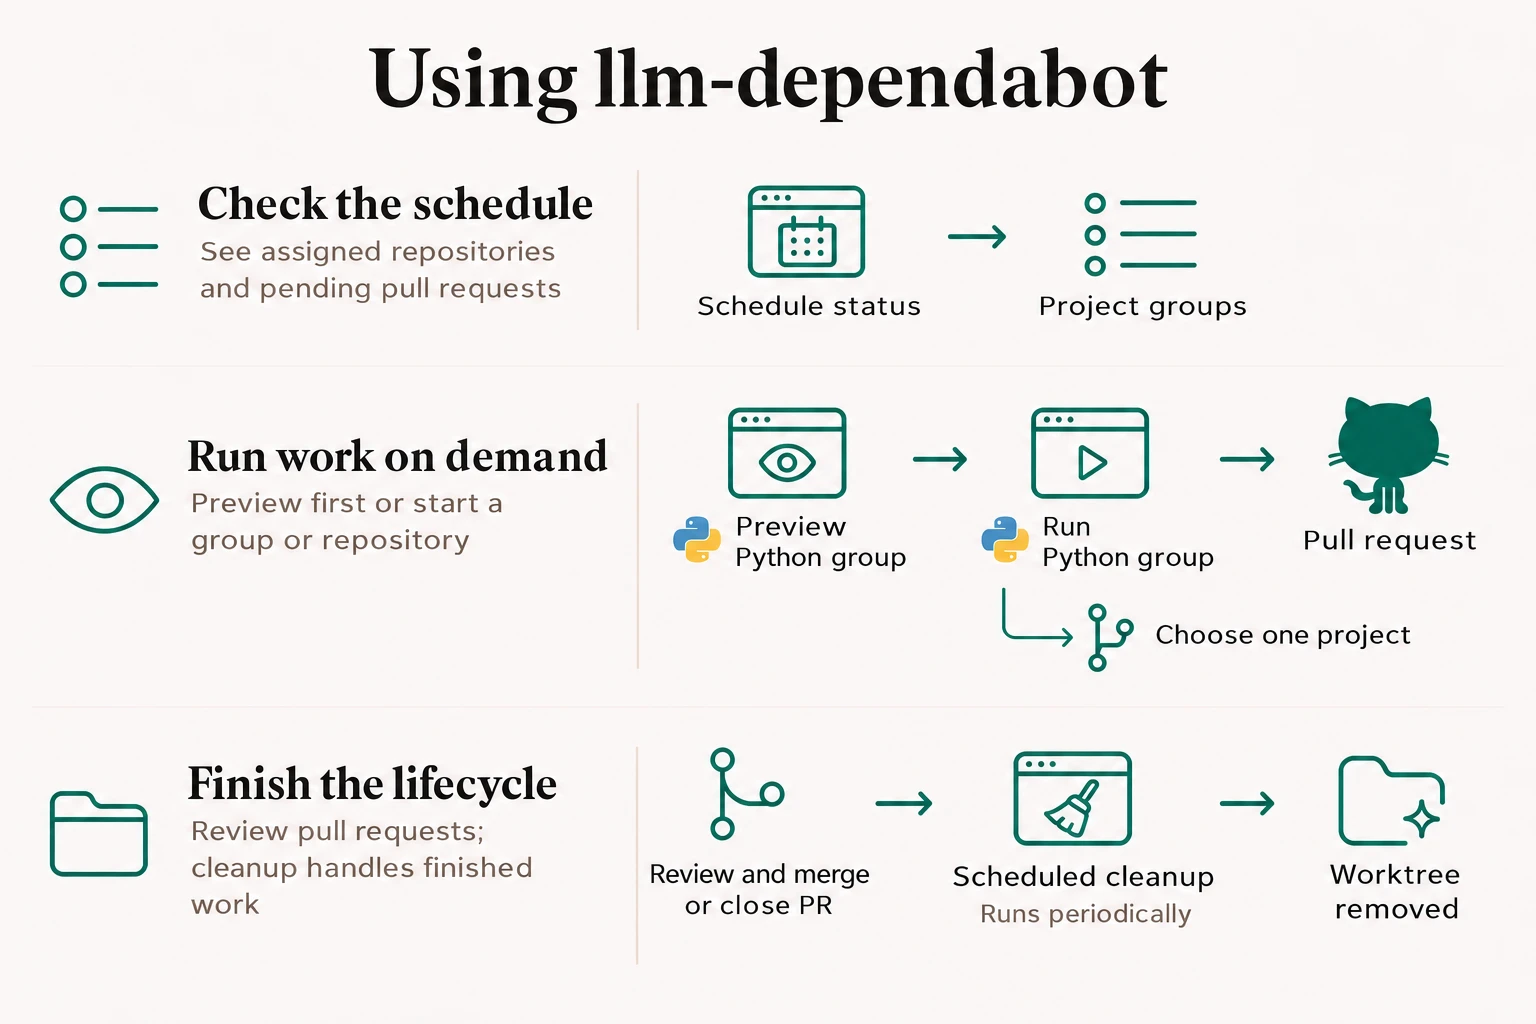
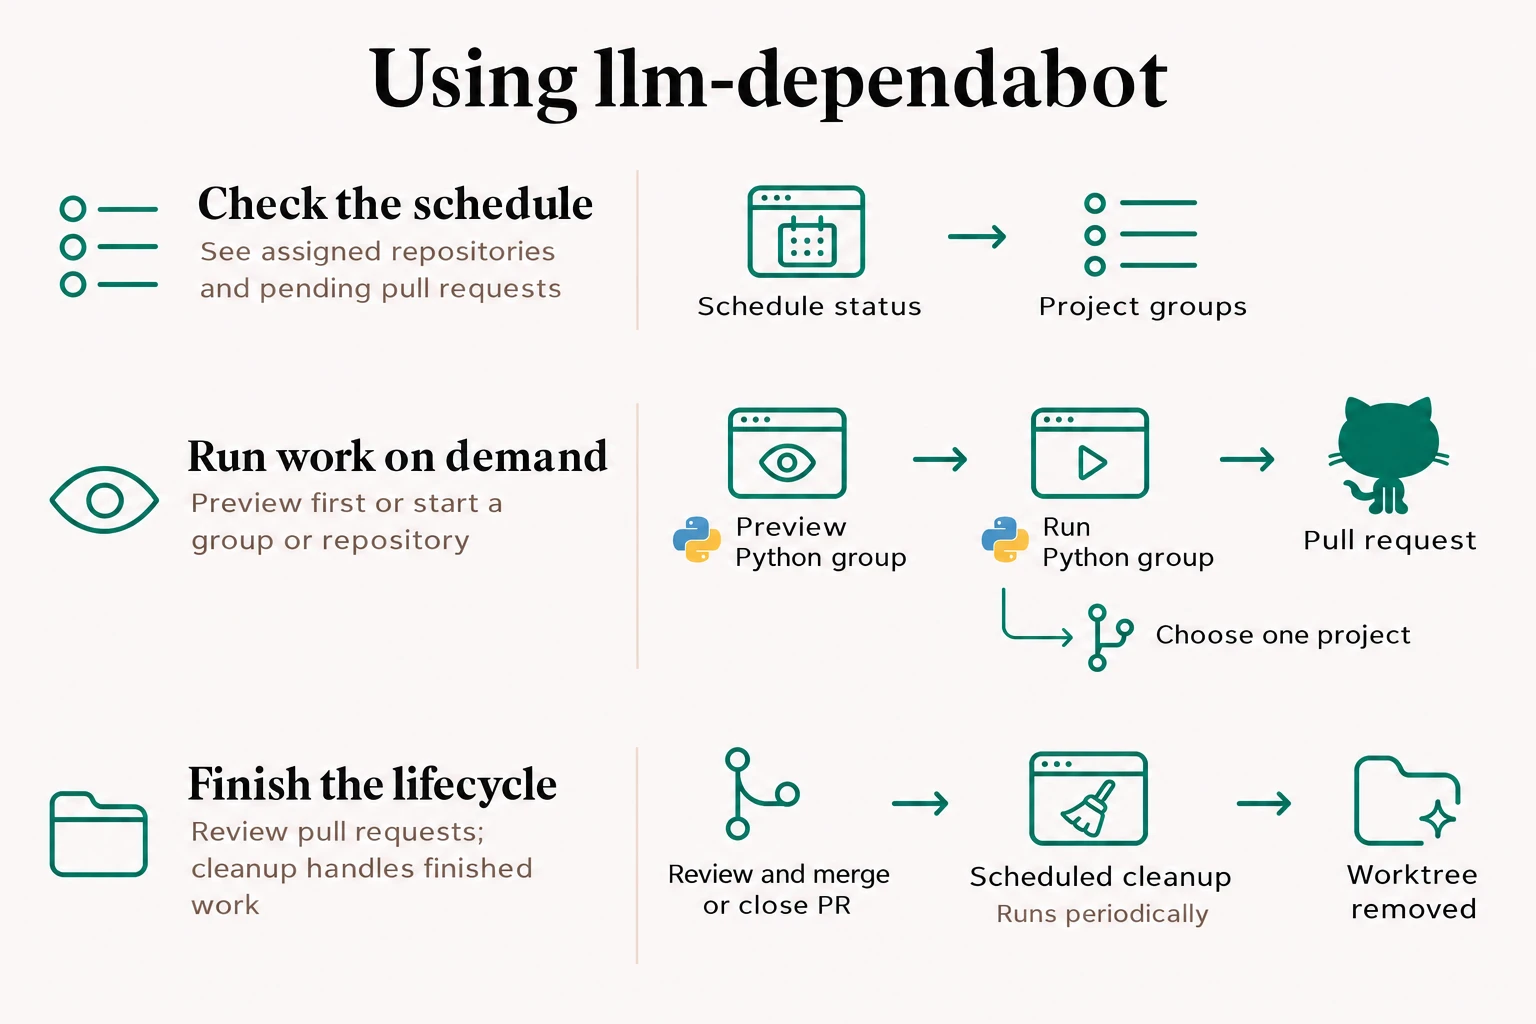
docs: add spacing to usage illustration

diff --git a/docs/images/README.md b/docs/images/README.md
@@ -95,6 +95,10 @@ Preserve the usage infographic’s layout, wording, arrows, all icons, and warm-
 Divider-alignment edit prompt:
 
 Align all three thin vertical dividers between the left icon-and-summary column and the right-side flow on the same vertical x-position. Match the top and middle divider positions by moving only the bottom divider horizontally. Preserve divider lengths and vertical placement. Do not change any wording, icons, arrows, spacing elsewhere, colours, typography, or other layout elements.
+
+Bottom-row spacing edit prompt:
+
+Keep all three dividers aligned. In the final row only, shift the complete right-hand flow, including labels, icons, arrows, and subtitle, about 24 pixels right while preserving its content and positions relative to one another. Keep the divider fixed and leave the left title, icon, heading, and summary unchanged. This gives the first flow label more breathing room after the divider. Keep the last node inside the canvas margin.
 ```
 ### Execution lifecycle and isolation
 
